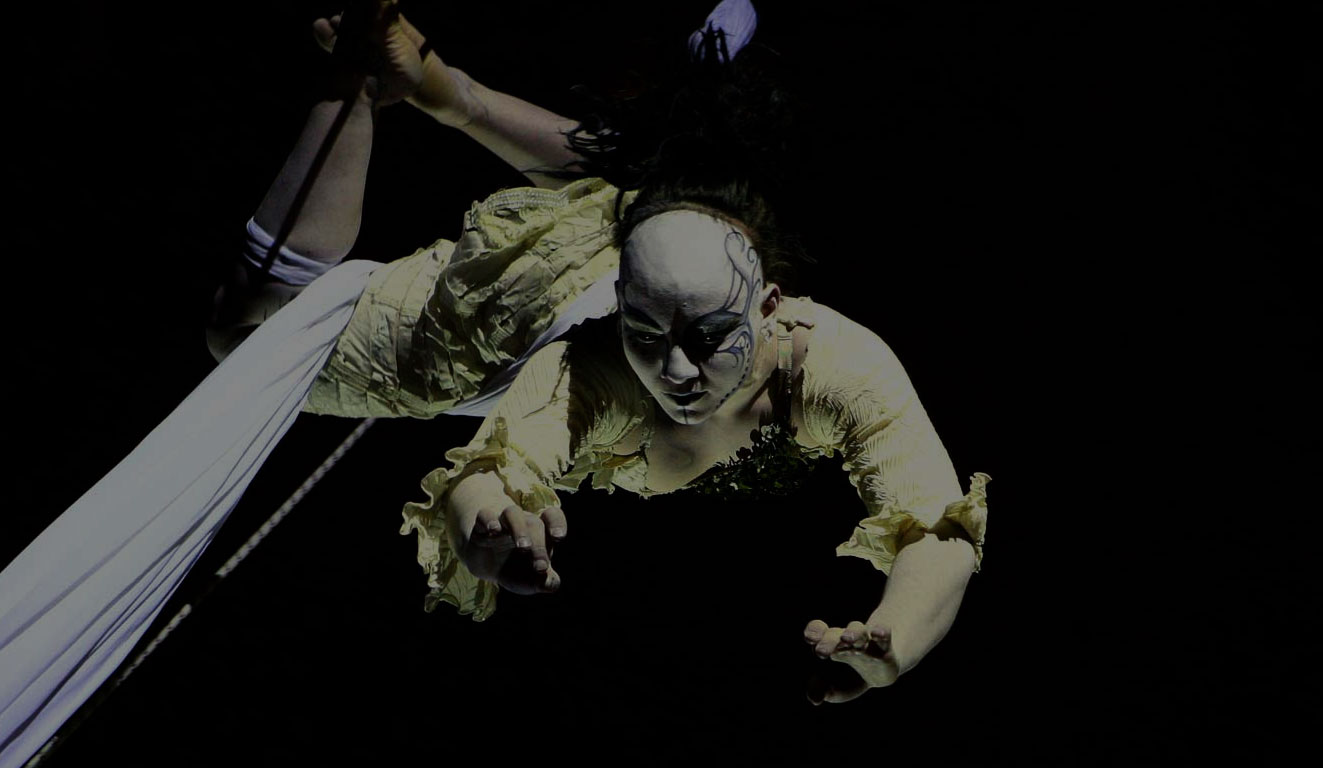
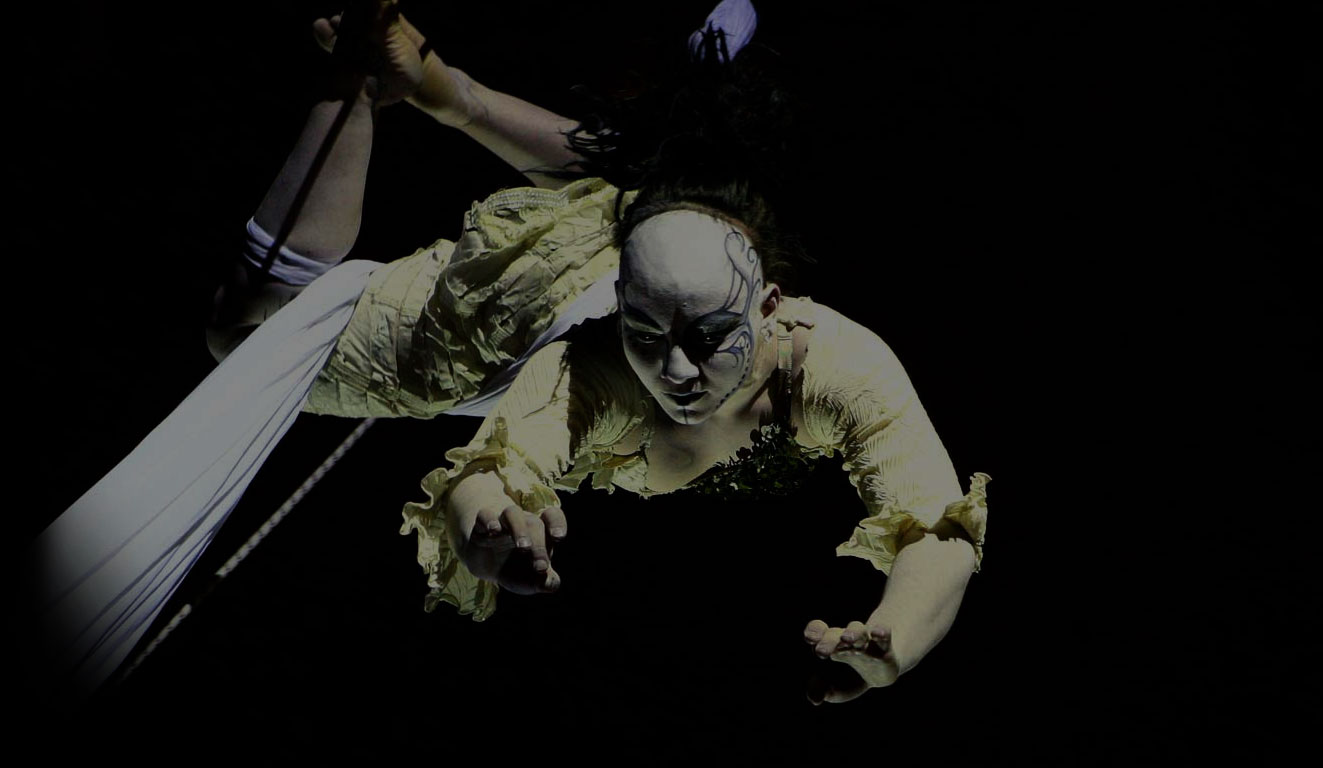
Revisions

Changed region(s): [[0.0, 0.6562, 0.124, 1.0]]

diff --git a/css/main.css b/css/main.css
@@ -1086,7 +1086,7 @@ body {
 @-ms-viewport {
   width: device-width; }
 body {
-  background: #2e3842; }
+  background: #000; }
   body.is-loading *, body.is-loading *:before, body.is-loading *:after {
     -moz-animation: none !important;
     -webkit-animation: none !important;
@@ -2491,6 +2491,15 @@ body.is-mobile #main > header {
       padding: 3em 2em 1em 2em ; } }
 
 /* Landing */
+
+body.landing #page-wrapper .ctlogo {
+  max-width: 40%;
+}
+
+body.is-mobile.landing #page-wrapper .ctlogo {
+  max-width: 55%;
+}
+
 body.landing #page-wrapper {
   background-image: -moz-linear-gradient(top, rgba(0,0,0,0.5), rgba(0,0,0,0.5)), url("/images/banner.jpg");
   background-image: -webkit-linear-gradient(top, rgba(0,0,0,0.5), rgba(0,0,0,0.5)), url("/images/banner.jpg");
@@ -2505,8 +2514,8 @@ body.landing #footer {
   background-color: rgba(29, 36, 42, 0.9); }
 
 body.is-mobile.landing #page-wrapper {
-  background: url("/images/bannersmall.jpg") -400px 50px no-repeat; 
-  background-size: 1300px;
+  background: url("/images/bannersmall.jpg") top center no-repeat; 
+  background-size: 1000px;
 }
 body.is-mobile.landing #banner,
 body.is-mobile.landing .wrapper.style4 {

diff --git a/index.html b/index.html
@@ -95,7 +95,7 @@
 							<header>
 							   <h2>In today’s high tech world, we spend less time face-to-face.  We’re more efficient, but we’ve lost touch.  Events are THE original social network, so let us help you connect with yours.
 </h2>
-<img src="images/logo-white.png" alt="Cindy Thompson Events" style="max-width:40%;">
+<img src="images/logo-white.png" alt="Cindy Thompson Events" class="ctlogo">
 								
 							</header>
 						</div>
